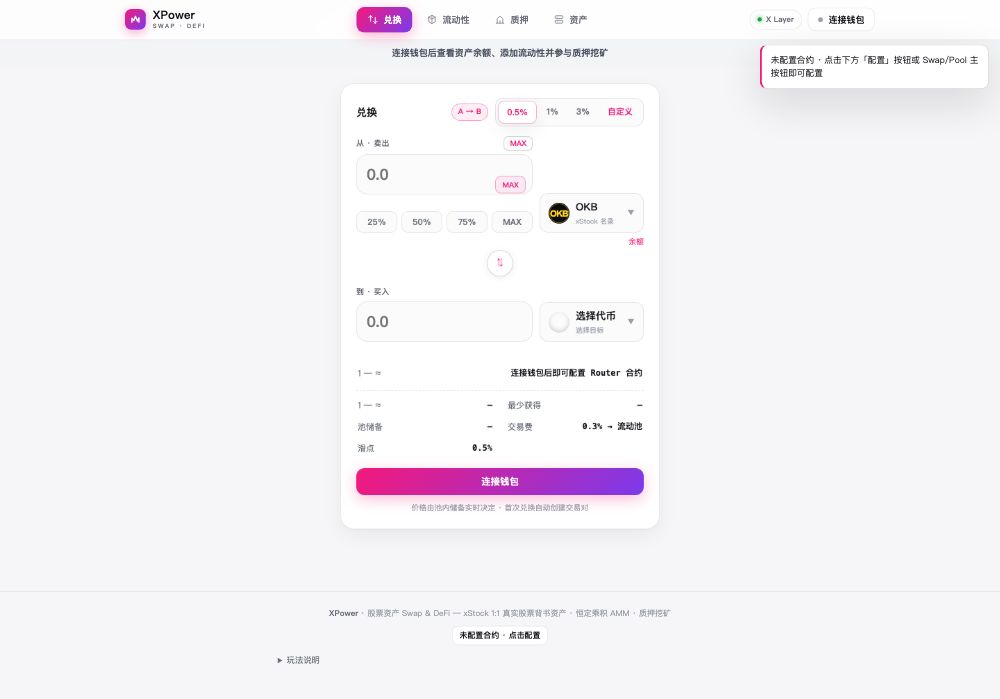
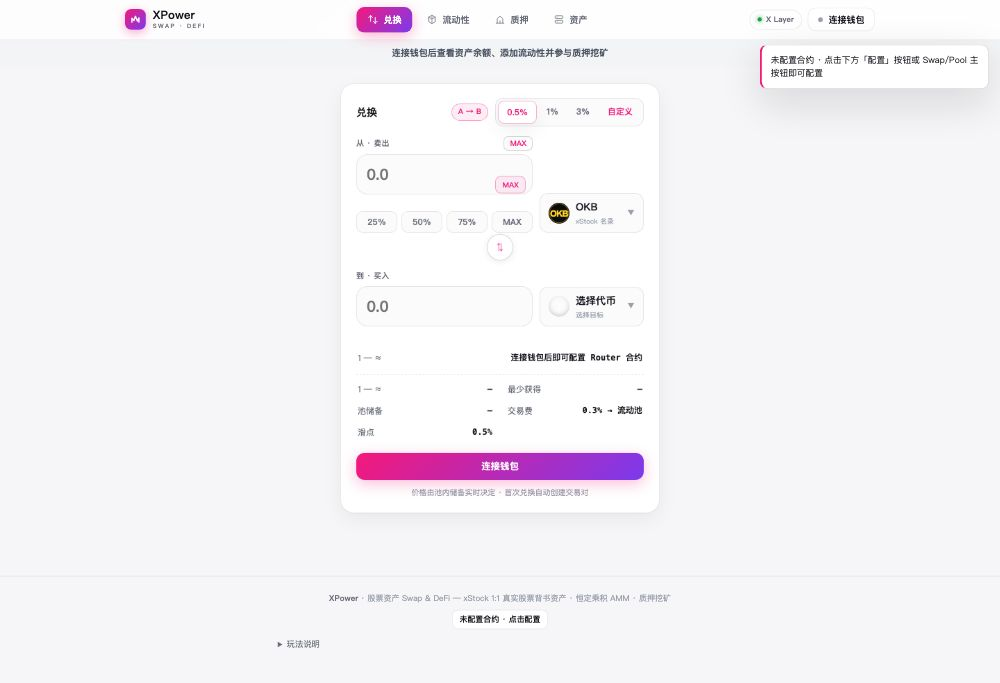
兑换页币种余额自动读取：打开即显示双币余额/去重inBal

diff --git a/XPower Swap DApp.html b/XPower Swap DApp.html
@@ -316,7 +316,6 @@ input[type=text]:focus,input[type=number]:focus,select:focus,textarea:focus{outl
           </div>
           <div class="tokbtn" id="fromBtn" onclick="pickToken('from')"><span class="lg" id="fromLg">?</span><span><span class="nm2" id="fromNm">选择代币</span><span class="sub2" id="fromSub">xStock 名录</span></span><span class="caret">▼</span></div>
         </div>
-        <div class="balrow"><span id="inBal"></span><span style="cursor:pointer;color:var(--acc)" onclick="setMax()">余额</span></div>
         <div class="arrow-mid"><button onclick="flipSwap()" title="交换方向">⇅</button></div>
         <div class="swap-row">
           <div class="amt">
@@ -1428,12 +1427,21 @@ function renderSwapSel(){
   if(sA&&sB)$("swapDir").textContent=sA.sym+" → "+sB.sym;
   quoteSwap();
 }
+function updateSwapBal(){
+  const fb=$("fromBal"),tb=$("toBal");
+  if(!walletAddr||!sA||!sB){if(fb)fb.textContent="";if(tb)tb.textContent="";return;}
+  withRPC(async p=>{
+    const ra=async t=>t.nat?await p.getBalance(walletAddr):await new ethers.Contract(tokAddr(t),ERC20_ABI,p).balanceOf(walletAddr);
+    const [ba,bb]=await Promise.all([ra(sA),ra(sB)]);
+    if(fb)fb.textContent="可用余额："+fmtPrice(fromWei(ba,sA.dec))+" "+sA.sym+(sA.nat?"（原生 Gas · 自动包装）":"");
+    if(tb)tb.textContent="可用余额："+fmtPrice(fromWei(bb,sB.dec))+" "+sB.sym;
+  }).catch(()=>{});
+}
 async function setMax(){
   if(!walletAddr||!sA){toast("请先选择卖出代币并连接钱包","err");return;}
   withRPC(async p=>{
     const bal=sA.nat?await p.getBalance(walletAddr):await new ethers.Contract(sA.addr,ERC20_ABI,p).balanceOf(walletAddr);
     $("inAmt").value=fmtPrice(fromWei(bal,sA.dec));
-    $("inBal").textContent=sA.sym+" 余额: "+fmtPrice(fromWei(bal,sA.dec))+(sA.nat?"（原生 Gas · 自动包装参与交易）":"");
     quoteSwap();
   }).catch(e=>toast("读取余额失败："+(e.message||e),"err"));
 }
@@ -1456,6 +1464,7 @@ async function quoteSwap(){
   el.classList.remove("on");rate.textContent="—";
   if(!cfg.router){$("outAmt").value="";rate.textContent=walletAddr?"未配置 Router 合约 · 点击下方按钮配置":"连接钱包后即可配置 Router 合约";updateSwapCta();return;}
   if(!sA||!sB){$("outAmt").value="";updateSwapCta();return;}
+  updateSwapBal();
   if(tokAddr(sA).toLowerCase()===tokAddr(sB).toLowerCase()){el.textContent="不能兑换同一代币";el.classList.add("on");$("outAmt").value="";updateSwapCta();return;}
   const n=Number($("inAmt").value);
   if(!n||n<=0){$("outAmt").value="";updateSwapCta();return;}
@@ -1465,15 +1474,7 @@ async function quoteSwap(){
       const amounts=await r.getAmountsOut(toWei(n,sA.dec),[tokAddr(sA),tokAddr(sB)]);
       const out=fromWei(amounts[1],sB.dec);
       const minOut=fromWei(amounts[1]*(10000n-BigInt(Math.round(slipPct*10000)))/10000n,sB.dec);
-      let depth=null,sbb=null,fbb=null;
-      if(walletAddr){
-        try{
-          sbb=sB.nat?await p.getBalance(walletAddr):await new ethers.Contract(tokAddr(sB),ERC20_ABI,p).balanceOf(walletAddr);
-        }catch(e){}
-        try{
-          fbb=sA.nat?await p.getBalance(walletAddr):await new ethers.Contract(tokAddr(sA),ERC20_ABI,p).balanceOf(walletAddr);
-        }catch(e){}
-      }
+      let depth=null;
       try{
         const f=new ethers.Contract(cfg.factory,FACTORY_ABI,p);
         const pair=await f.getPair(tokAddr(sA),tokAddr(sB));
@@ -1486,18 +1487,8 @@ async function quoteSwap(){
           depth={a:fromWei(dA,sA.dec),b:fromWei(dB,sB.dec)};
         }
       }catch(e){}
-      return {out,minOut,depth,sbb,fbb};
+      return {out,minOut,depth};
     });
-    const fb=$("fromBal");
-    if(fb){
-      if(walletAddr&&res.fbb!==null&&res.fbb!==undefined)fb.textContent="可用余额："+fmtPrice(fromWei(res.fbb,sA.dec))+" "+sA.sym;
-      else fb.textContent="";
-    }
-    const tb=$("toBal");
-    if(tb){
-      if(walletAddr&&res.sbb!==null&&res.sbb!==undefined)tb.textContent="可用余额："+fmtPrice(fromWei(res.sbb,sB.dec))+" "+sB.sym;
-      else tb.textContent="";
-    }
     $("outAmt").value=fmtPrice(res.out);
     if(res.out>0){
       rate.textContent=fmtPrice(res.out/n)+" "+sB.sym;
@@ -1513,7 +1504,6 @@ async function quoteSwap(){
       withRPC(async p=>{
         const bal=sA.nat?await p.getBalance(walletAddr):await new ethers.Contract(sA.addr,ERC20_ABI,p).balanceOf(walletAddr);
         const balNum=fromWei(bal,sA.dec);
-        $("inBal").textContent=sA.sym+" 余额: "+fmtPrice(balNum)+(sA.nat?"（原生 Gas · 自动包装参与交易）":"");
         const inEl=$("inAmt"),amtN=Number(inEl.value);
         if(amtN>0&&amtN>balNum){el.textContent="余额不足 · 可用 "+fmtPrice(balNum)+" "+sA.sym;el.classList.add("on");inEl.style.borderColor="var(--err)";}
         else{inEl.style.borderColor="";}
